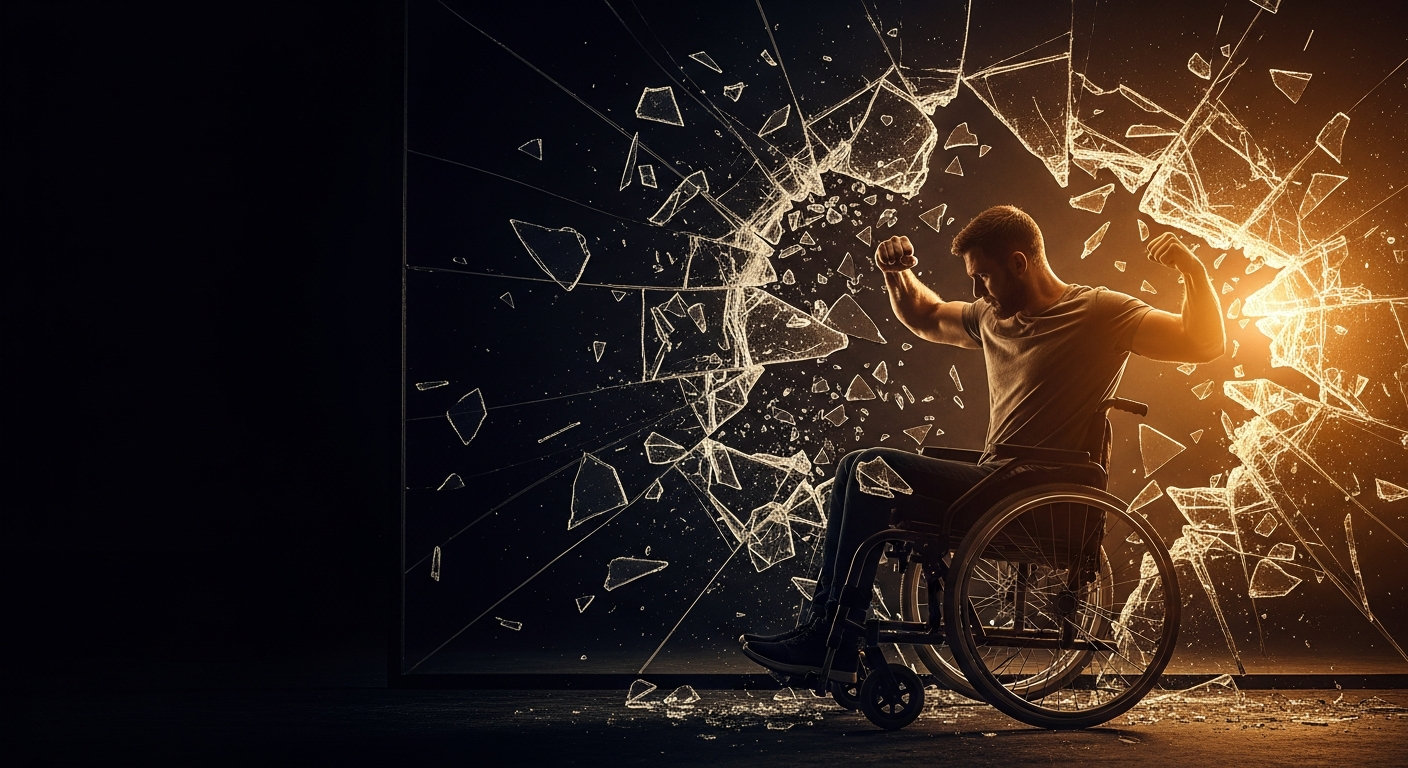
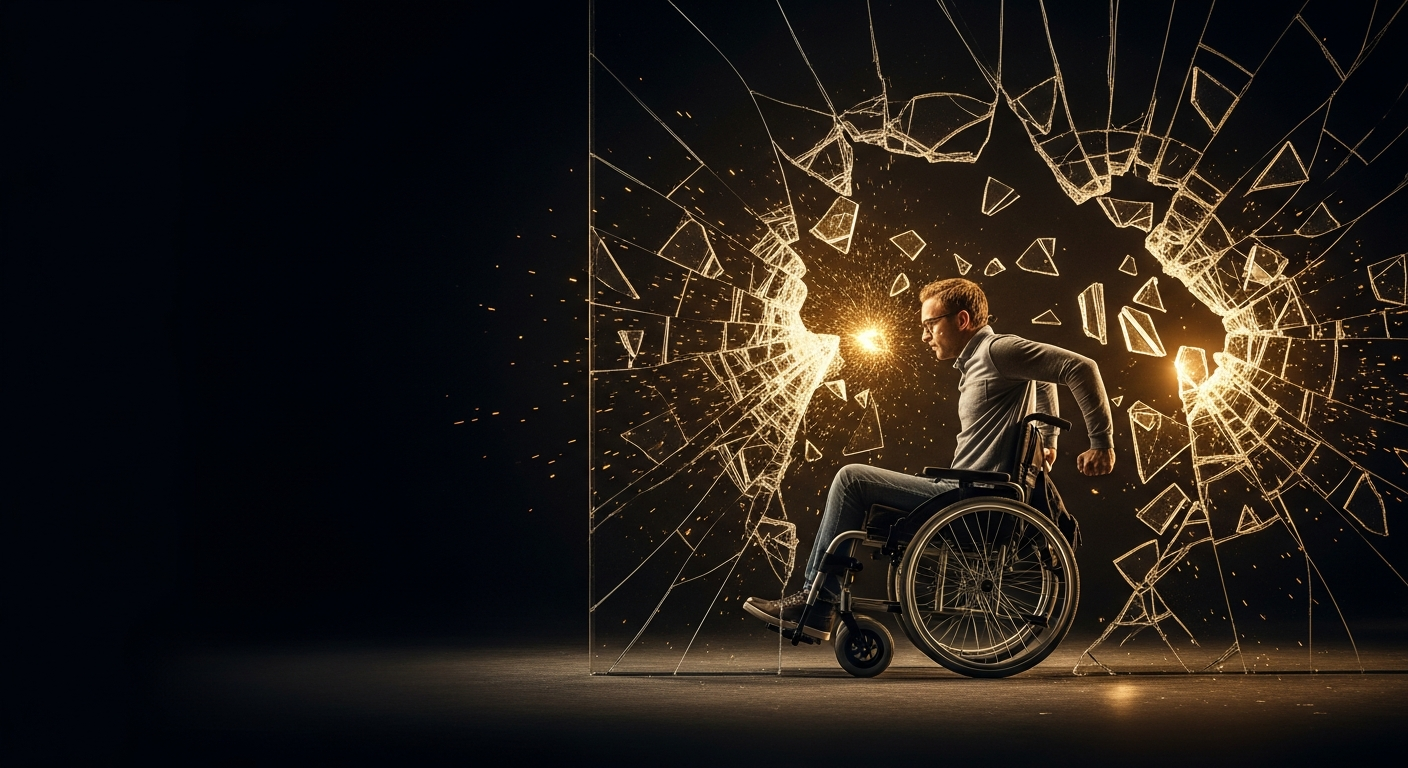
Enhance hero section with dramatic shattered glass effect
Update Homepage.tsx and associated assets to implement a more intense shattered glass visual for the hero section, including new image assets and layered CSS effects.

Replit-Commit-Author: Agent
Replit-Commit-Session-Id: 5c6bba92-a7a1-4bb5-a2e5-c14421177974
Replit-Commit-Checkpoint-Type: full_checkpoint
Replit-Commit-Event-Id: d9bcb44a-3abe-44d5-a2a8-603044e987ac
Replit-Commit-Screenshot-Url: https://storage.googleapis.com/screenshot-production-us-central1/59c04a4e-e80a-4c53-92e5-57fc1e9e7112/5c6bba92-a7a1-4bb5-a2e5-c14421177974/2Pwl7cm
Replit-Helium-Checkpoint-Created: true

diff --git a/artifacts/mockup-sandbox/src/components/mockups/home-breakmold/Homepage.tsx b/artifacts/mockup-sandbox/src/components/mockups/home-breakmold/Homepage.tsx
@@ -39,21 +39,45 @@ function Header() {
 }
 
 function Hero() {
+  // Radiating fracture angles (degrees) emanating from the impact point.
+  const cracks = [-58, -33, -14, 9, 31, 55, 78];
   return (
     <section className="relative bg-black overflow-hidden">
       <div className="absolute inset-0">
-        <img src="/__mockup/images/hero-breakmold.png" alt="" className="w-full h-full object-cover object-right opacity-45" />
+        <img src="/__mockup/images/hero-breakmold.png" alt="" className="w-full h-full object-cover object-right opacity-60 contrast-125" />
         {/* Left-to-right wash keeps the headline readable; bottom fade blends into the stats strip. */}
-        <div className="absolute inset-0 bg-gradient-to-r from-black via-black/90 to-black/30" />
+        <div className="absolute inset-0 bg-gradient-to-r from-black via-black/85 to-black/10" />
         <div className="absolute inset-0 bg-gradient-to-t from-black via-transparent to-black/40" />
       </div>
 
-      {/* Gold shard streak — the "break" line slicing across the hero. */}
-      <div
-        className="absolute -right-10 top-0 h-full w-px bg-gold/40 hidden lg:block"
-        style={{ transform: "rotate(8deg)", transformOrigin: "top" }}
-        aria-hidden="true"
-      />
+      {/* Shattered-glass field: impact glow + radiating fracture lines. */}
+      <div className="absolute inset-0 pointer-events-none hidden lg:block" aria-hidden="true">
+        {/* Gold impact bloom where the chair bursts through. */}
+        <div className="absolute right-[26%] top-1/2 -translate-y-1/2 w-[44rem] h-[44rem] rounded-full bg-[radial-gradient(circle,_rgba(226,116,27,0.30),_transparent_62%)] blur-2xl" />
+        {/* Cracks radiating from the impact point. */}
+        <div className="absolute" style={{ right: "30%", top: "48%" }}>
+          {cracks.map((deg, i) => (
+            <div
+              key={i}
+              className="absolute left-0 top-0 h-px origin-left bg-gradient-to-r from-gold/80 via-gold/30 to-transparent"
+              style={{ width: `${20 + i * 5}rem`, transform: `rotate(${deg}deg)` }}
+            />
+          ))}
+          {/* Finer white hairline fractures for glass realism. */}
+          {[-46, 4, 44].map((deg, i) => (
+            <div
+              key={`h${i}`}
+              className="absolute left-0 top-0 h-px origin-left bg-gradient-to-r from-white/50 via-white/15 to-transparent"
+              style={{ width: `${28 + i * 6}rem`, transform: `rotate(${deg}deg)` }}
+            />
+          ))}
+        </div>
+        {/* One bold diagonal break line slashing the full hero. */}
+        <div
+          className="absolute -right-20 top-0 h-[140%] w-[2px] bg-gradient-to-b from-transparent via-gold/55 to-transparent"
+          style={{ transform: "rotate(11deg)", transformOrigin: "top" }}
+        />
+      </div>
 
       <div className="relative z-10 max-w-7xl mx-auto px-4 sm:px-6 lg:px-8 pt-20 pb-28">
         <div className="grid lg:grid-cols-2 gap-16 items-center">
@@ -62,9 +86,15 @@ function Hero() {
               <Zap className="h-3.5 w-3.5 text-gold" fill="currentColor" />
               <span className="text-xs font-semibold uppercase tracking-wider text-gold">Breaking the mold since 2019</span>
             </div>
-            <h1 className="font-display text-white text-7xl md:text-8xl lg:text-[8.5rem] leading-[0.85] mb-8">
-              Break <span className="text-gold">the</span> mold.
+            <h1 className="font-display text-white text-7xl md:text-8xl lg:text-[8.5rem] leading-[0.85] mb-6 [text-shadow:0_2px_40px_rgba(0,0,0,0.8)]">
+              Break <span className="text-gold [text-shadow:0_0_30px_rgba(226,116,27,0.5)]">the</span> mold.
             </h1>
+            {/* Fractured gold rule under the headline. */}
+            <div className="flex items-center gap-1.5 mb-8" aria-hidden="true">
+              <span className="h-1 w-16 bg-gold" />
+              <span className="h-1 w-6 bg-gold/70" style={{ transform: "skewX(-30deg)" }} />
+              <span className="h-1 w-2 bg-gold/40" style={{ transform: "skewX(-30deg)" }} />
+            </div>
             <p className="text-xl text-white/75 mb-10 leading-relaxed max-w-xl">
               They told me this was as good as it gets. So I shattered the ceiling — one rep at a time. The system stabilizes you and stops. We don't. Six weeks out or six years in, you keep showing up, and so do we.
             </p>
